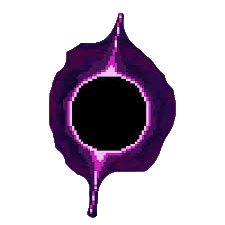
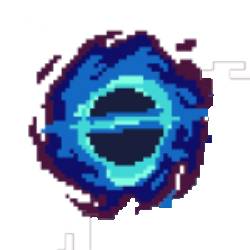
Animation is resolved, please resolve collision

diff --git a/main.py b/main.py
@@ -21,7 +21,7 @@ sndPoint = pygame.mixer.Sound('point.mp3')
 sndPoint.set_volume(0.13)
 
 # image file path
-hole_image = pygame.image.load('hole1.png')
+#hole_image = pygame.image.load('hole1.png')
 space_bg = pygame.image.load('space.png')
 button_img = pygame.image.load('restart.png')
 
@@ -59,34 +59,66 @@ class Meteor(pygame.sprite.Sprite):
     def __init__(self,x,y,):
         pygame.sprite.Sprite.__init__(self)
         self.image = pygame.image.load('meteorit.png')
+        #self.image.fill((255,0,0))
         self.rect = self.image.get_rect()
         self.rect.center = [x,y]
     
     def update(self):
-        if self.rect.x > 330:
-            self.rect.x -= GRAVITY_FORCE
-        if self.rect.x < 330:
-            self.rect.x += GRAVITY_FORCE
-        if self.rect.y < 220:
-            self.rect.y += GRAVITY_FORCE
-        if self.rect.y > 220:
-            self.rect.y -= GRAVITY_FORCE
-        if self.rect.x == 330 and self.rect.y == 220:
+        if self.rect.centerx > 350:
+            self.rect.centerx -= GRAVITY_FORCE
+        if self.rect.centerx < 350:
+            self.rect.centerx += GRAVITY_FORCE
+        if self.rect.centery < 250:
+            self.rect.centery += GRAVITY_FORCE
+        if self.rect.centery > 250:
+            self.rect.centery -= GRAVITY_FORCE
+        if self.rect.centerx == 300 and self.rect.centery >= 230:
             self.kill()
-        
-
+        if self.rect.centerx == 370 and self.rect.centery <= 330:
+            self.kill()
+        if self.rect.centerx == 300 and self.rect.centery <= 330:
+            self.kill()
+        if self.rect.centerx == 370 and self.rect.centery >= 230:
+            self.kill()
+        if self.rect.centerx >= 300 and self.rect.centery == 230:
+            self.kill()
+        if self.rect.centerx <= 370 and self.rect.centery == 330:
+            self.kill()
+        if self.rect.centerx >= 300 and self.rect.centery == 330:
+            self.kill()
+        if self.rect.centerx <= 370 and self.rect.centery == 230:
+            self.kill()
 class Hole(pygame.sprite.Sprite):
     def __init__(self,x,y):
         pygame.sprite.Sprite.__init__(self)
-        self.image = pygame.image.load('hole1.png')
+        self.images = []
+        self.index = 0
+        self.counter = 0
+        for num in range(1,4):
+            img = pygame.image.load(f'hole{num}.png')
+            self.images.append(img)
+        self.image = self.images[self.index]
         self.rect = self.image.get_rect()
-        self.rect.center = [x, y]
+        self.rect.center = [x,y]
         
+    def update(self):
+        if game_over == False:
+            self.counter += 1
+            cooldown = 5
+
+            if self.counter > cooldown:
+                self.counter = 0
+                self.index += 1
+                if self.index >= len(self.images):
+                    self.index = 0
+            self.image = self.images[self.index]
+
 
 class Sattelite(pygame.sprite.Sprite):
     def __init__(self,x,y):
         pygame.sprite.Sprite.__init__(self)
         self.image = pygame.image.load('sattelite.png')
+        #self.image.fill((255,0,0))
         self.rect = self.image.get_rect()
         self.rect.center = [x,y]
         self.x_axis = 600
@@ -145,14 +177,14 @@ while run:
     draw_text(str(score),font,white,int(WIDTH/2),20)
 
     #collide_event
-    if pygame.sprite.spritecollide(voyager,meteorit_group,False,False):
+    if pygame.sprite.groupcollide(satel_group,meteorit_group,False,False):
         game_over = True
         button.draw()
 
     if game_over == False:
 
-        if score == 1000:
-            black_hole.image = pygame.image.load('hole2.png')
+        #if score == 1000:
+         #   black_hole.image = pygame.image.load('hole2.png')
 
         time_now = pygame.time.get_ticks()
 
